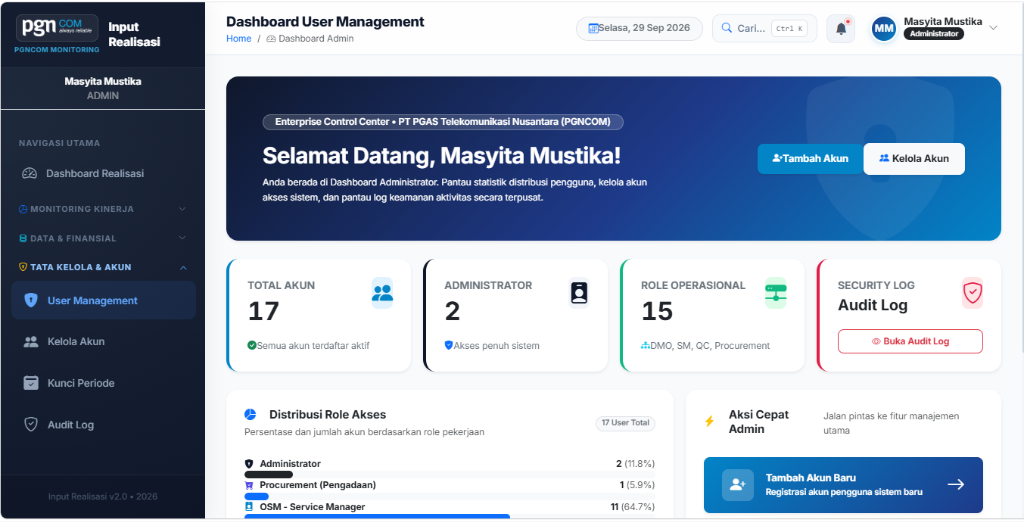
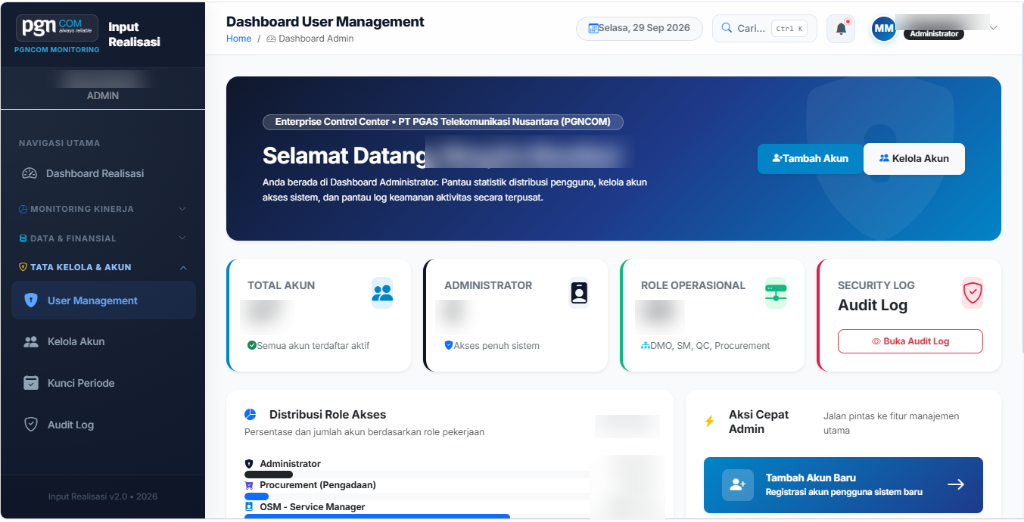
chore: sembunyikan dan blur data sensitif perusahaan pada dashboard PGNCOM & Power BI

diff --git a/src/lib/data.ts b/src/lib/data.ts
@@ -35,7 +35,7 @@ export const defaultExperiences: Experience[] = [
     start_date: '2023',
     end_date: '2024',
     is_current: false,
-    description: 'Mengembangkan sistem web operasional enterprise "Monitoring Realisasi Biaya & Quality Control" untuk pemantauan realisasi anggaran proyek, pengesahan dokumen BASTO, verifikasi mutu QC teknis, dan administrasi invoicing. Merancang dan mengintegrasikan dashboard analitik Microsoft Power BI interaktif untuk monitoring 84 kontrak proyek senilai Rp309 Miliar, evaluasi rasio realisasi vs prognosa, dan tracking status transaksi vendor secara real-time.',
+    description: 'Mengembangkan sistem web operasional enterprise "Monitoring Realisasi Biaya & Quality Control" untuk pemantauan realisasi anggaran proyek, pengesahan dokumen BASTO, verifikasi mutu QC teknis, dan administrasi invoicing. Merancang dan mengintegrasikan dashboard analitik Microsoft Power BI interaktif untuk monitoring capaian proyek, evaluasi rasio realisasi vs prognosa, dan tracking status transaksi secara real-time.',
     technologies: ['Microsoft Power BI', 'DAX', 'Laravel', 'PHP', 'MySQL', 'Tailwind CSS', 'REST API', 'Enterprise Governance'],
     display_order: 2,
   },
@@ -114,7 +114,7 @@ export const defaultProjects: Project[] = [
     captions: [
       'Portal Operasional PGNCOM • Realisasi Biaya & QC Control',
       'Dashboard Administrator • Manajemen Distribusi Akun & Audit Log',
-      'Dashboard Monitoring Power BI • Analitik Kontrak & Realisasi Anggaran',
+      'Dashboard Monitoring Power BI • Analitik Realisasi & Performa Proyek',
     ],
     featured: true,
     display_order: 3,

diff --git a/src/components/ServicesSection.tsx b/src/components/ServicesSection.tsx
@@ -58,9 +58,9 @@ const services: ServiceItem[] = [
     subtitle: 'Microsoft Power BI, DAX & Executive Reporting',
     description: 'Merancang visualisasi data bisnis interaktif, monitoring serapan anggaran, dan KPI kinerja eksekutif dengan Microsoft Power BI terintegrasi langsung ke database operasional perusahaan (seperti implementasi di PT PGAS Telekomunikasi Nusantara).',
     deliverables: [
-      'Dashboard Analitik Interaktif Power BI (Nilai Kontrak vs Realisasi vs Prognosa Rp309M)',
-      'Pemodelan Data Relasional, Perhitungan DAX & Analisis Finansial per Vendor',
-      'Tracking Status Transaksi Finansial (PAID, POPAY, WAIT INV) Berkelanjutan',
+      'Dashboard Analitik Interaktif Power BI (Monitoring Realisasi vs Prognosa Proyek)',
+      'Pemodelan Data Relasional, Perhitungan DAX & Visualisasi KPI Eksekutif',
+      'Tracking Status Transaksi Operasional Berkelanjutan Secara Real-Time',
       'Monitoring Realisasi Biaya & Quality Control Berstandar Enterprise NOC',
     ],
     techStack: ['Microsoft Power BI', 'DAX', 'MySQL', 'Data Modeling', 'Laravel Backend'],
